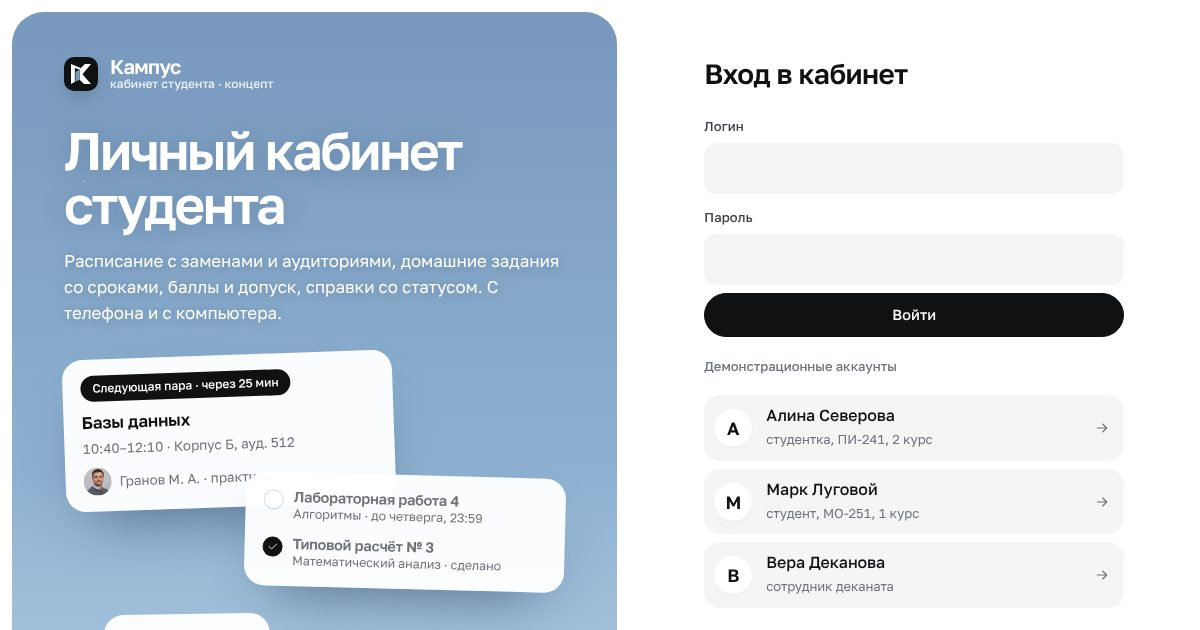
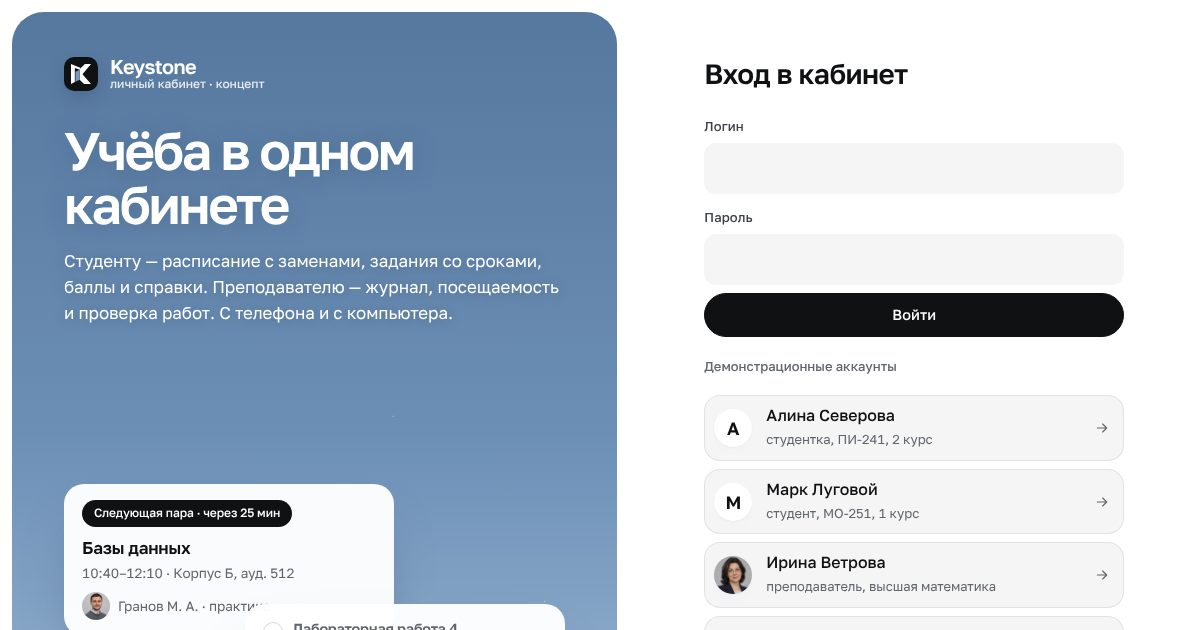
Доступность и документация: контраст неба и подписей, архитектура v3, README для трёх ролей
Claude-Session: https://claude.ai/code/session_01WXnceTRAi8bW5CZN4AeUqz

diff --git a/public/css/app.css b/public/css/app.css
@@ -645,7 +645,7 @@ input:focus-visible,select:focus-visible,textarea:focus-visible{background:var(-
     radial-gradient(1px 1px at 78% 14%,rgba(255,255,255,.9),transparent 60%),
     radial-gradient(1.5px 1.5px at 88% 70%,rgba(255,255,255,.6),transparent 60%),
     radial-gradient(1px 1px at 36% 86%,rgba(255,255,255,.7),transparent 60%),
-    linear-gradient(180deg,#7898bd 0%,#8eb1d1 60%,#b6cfe4 100%)}
+    linear-gradient(180deg,#56779e 0%,#6c8fb6 50%,#a3bed9 100%)}
 .sky,.news.lead.sky,.news.lead.sky:hover{position:relative;isolation:isolate;overflow:hidden;color:#fff;background:var(--sky-bg)}
 .sky :focus-visible{outline-color:#fff}
 
@@ -1011,3 +1011,11 @@ i.jm.m-p::after{width:6px;height:6px}
 .att-line{display:flex;flex-wrap:wrap;align-items:baseline;gap:4px 10px;padding-top:10px;border-top:1px solid var(--line);font-size:13.5px;color:var(--muted)}
 .att-line b{font-weight:600;color:var(--ink)}
 .att-line.low b{color:var(--bad)}
+
+/* Доступность: прямые карточки на входе, контур у демо-аккаунтов, текст новости сверху на тёмной части неба */
+.ui-a,.ui-b,.ui-c{transform:none}
+.demo{box-shadow:inset 0 0 0 1px var(--line)}
+.news.lead{align-content:start}
+.sky .now-meta span,.sky .now-who{color:var(--ink)}
+@media (min-width:960px){.login-side{grid-template-rows:auto auto 1fr}.login-side .hero-ui{align-self:end;margin-top:0}}
+@media (max-width:700px){.jr .jr-name{min-width:128px;padding-right:6px}.jr-stud .face{display:none}.jm{width:24px;height:24px}}

diff --git a/public/js/student.js b/public/js/student.js
@@ -218,7 +218,7 @@ export function viewToday() {
       notes.push(`<button class="change ${l.cancelled ? 'is-cancel' : ''}" data-lesson="${esc(l.id)}"><span class="change-kind">${esc(l.change.label)}</span><span class="change-body"><strong>${esc(l.title)}</strong><span class="change-diff">${when} · ${l.cancelled ? esc(l.change.reason) : `<s>${esc(l.change.was)}</s> <span aria-hidden="true">→</span> <b>${esc(l.change.now)}</b>`}</span></span>${icon('chevron')}</button>`);
     }
   }
-  for (const n of d.notices.filter((x) => !x.read && x.tag === 'Деканат' || !x.read && x.tag === 'Мероприятие')) {
+  for (const n of d.notices.filter((x) => !x.read && ['Деканат', 'Мероприятие', 'Преподаватель', 'Оценка', 'Задание'].includes(x.tag)).slice(0, 4)) {
     notes.push(`<a class="change" href="#notices"><span class="change-kind">${esc(n.tag)}</span><span class="change-body"><strong>${esc(n.title)}</strong><span class="change-diff">${esc(n.body)}</span></span>${icon('chevron')}</a>`);
   }
   const ready = d.requests.filter((x) => x.status === 'Готова').map((r) => item({href: r.document ? `doc/${r.id}` : 'requests', ico: 'requests', tone: 'mint', title: `Документ готов: ${esc(r.kind.toLowerCase())}`, sub: 'Электронная версия в кабинете, оригинал в ауд. А-112.'}));

diff --git a/public/js/util.js b/public/js/util.js
@@ -63,8 +63,8 @@ export function buildIcs(days) {
     const date = day.date.replaceAll('-', '');
     for (const l of day.lessons) {
       if (l.cancelled) continue;
-      const description = [`${l.type}, ${l.pair} пара`, l.teacher.name, l.subgroup, l.format === 'Онлайн' ? 'Онлайн (ссылка в LMS)' : '', l.change ? `${l.change.label}: ${l.change.was} → ${l.change.now}` : ''].filter(Boolean).join('\n');
-      events.push(['BEGIN:VEVENT', `UID:${l.id}@meridian-demo`, `DTSTAMP:${stampNow}`,
+      const description = [`${l.type}, ${l.pair} пара`, l.teacher?.name, l.groups ? `Группы: ${l.groups.join(', ')}` : '', l.subgroup, l.format === 'Онлайн' ? 'Онлайн (ссылка в LMS)' : '', l.change ? `${l.change.label}: ${l.change.was} → ${l.change.now}` : ''].filter(Boolean).join('\n');
+      events.push(['BEGIN:VEVENT', `UID:${l.id}@keystone-demo`, `DTSTAMP:${stampNow}`,
         `DTSTART;TZID=Europe/Moscow:${date}T${l.start.replace(':', '')}00`, `DTEND;TZID=Europe/Moscow:${date}T${l.end.replace(':', '')}00`,
         `SUMMARY:${icsEscape(l.title + ' (' + l.type.toLowerCase() + ')')}`, `LOCATION:${icsEscape(l.place)}`, `DESCRIPTION:${icsEscape(description)}`, 'END:VEVENT'].join('\r\n'));
     }

diff --git a/public/css/tokens.css b/public/css/tokens.css
@@ -3,7 +3,7 @@
 :root{
   color-scheme:light;
   --paper:#ffffff;--paper-2:#f5f5f6;--surface:#ffffff;--card:#f5f5f6;
-  --ink:#101113;--ink-2:#3c3f45;--muted:#6f737b;
+  --ink:#101113;--ink-2:#3c3f45;--muted:#61656d;
   --line:rgba(16,17,19,.08);--line-strong:rgba(16,17,19,.16);
   /* Небо: от пыльного синего к светлому */
   --sky-top:#7f9fc3;--sky-mid:#94b8d5;--sky-low:#c6dbea;--sky-ink:#3e6189;

diff --git a/docs/architecture.md b/docs/architecture.md
@@ -1,153 +1,127 @@
 # Архитектура Keystone v3
 
-Черновик целевой архитектуры кабинета перед редизайном. Версия 1 (`server.py` на стандартной библиотеке и один `app.js`) доказала сценарии, но не масштабируется и не позволяет быстро менять дизайн. Ниже описано, во что мы её превращаем к 22 ноября и почему.
+Keystone — концепт личного кабинета университета для трёх ролей: студент, преподаватель и деканат. Название — замковый камень арки: он держит всю конструкцию, как кабинет держит учебный процесс. Все люди и данные вымышлены.
 
-Статус: 14.11, версия 2 (фронтенд v2 реализован: нижние вкладки, экран «Сегодня», модель расписания, строгий стиль на токенах; бэкенд остался на `server.py`). Учтены бенчмарк порталов (`docs/benchmark-portals.md`) и отчёт критика (`docs/critique.md`). Визуальный стиль ждём от владельца.
-
-## 0. Решение после критики
-
-Критик прав: полная замена бэкенда на FastAPI + PostgreSQL + React за 8 дней — главный риск проекта. Поэтому:
-
-- **Бэкенд остаётся** на текущем `server.py` (стандартная библиотека, SQLite, 12 тестов безопасности). Развиваем его по шагам: новые эндпоинты, справка PDF с QR, лента событий. Таблица стека ниже — целевое состояние для масштабирования после конкурса, в отчёте описываем путь миграции.
-- **Фронтенд переписываем с нуля** — именно он делает продукт «фиговым»: пять наслоённых тем в CSS, пять семейств шрифтов, меню на полэкрана на телефоне. Новый фронтенд — без сборки (ES-модули + дизайн-токены), чтобы деплой оставался одним контейнером.
-- **Публичный HTTPS на российском VPS** поднимаем до редизайна, чтобы жюри гарантированно было что открыть.
+Этот документ описывает то, что реализовано в репозитории. Ранний план перехода на FastAPI, PostgreSQL и React отложен после критики: за отведённое время надёжнее развивать работающий сервер на стандартной библиотеке Python с тестами доступа.
 
 ## 1. Принципы
 
-1. **Задача за два касания.** Главный экран отвечает на вопросы «что у меня сейчас», «что изменилось» и «что я должен сделать». Остальное доступно через нижние вкладки или поиск.
-2. **Одна лента изменений.** Перенос пары, новая оценка, готовая справка и объявление деканата приходят как события одного типа с приоритетом, а не разбросаны по разделам.
-3. **Деканат как сервис, а не очередь.** У каждой заявки есть срок, ответственный, история и понятный следующий шаг. Готовая справка проверяется по QR-коду.
-4. **Безопасность по умолчанию.** Сервер фильтрует любые данные по владельцу, роль проверяется на каждом запросе, секреты хранятся только в переменных окружения сервера.
-5. **Тема — это токены.** Цвета, шрифты, радиусы и плотность задаются CSS-переменными. Новый стиль от владельца подключается заменой одного файла `tokens.css`, без переписывания компонентов.
+1. **Ответ на главный вопрос роли на первом экране.** Студенту: куда идти и что сдать. Преподавателю: какое занятие, кто пришёл, что проверить. Деканату: какие заявки ждут.
+2. **Одно действие — одна кнопка.** Отметить посещаемость, сдать задание, выставить оценку, выдать задание, заказать справку — всё делается из той карточки, где возникла потребность.
+3. **Связанные кабинеты.** Действие одной роли сразу видно другой: преподаватель выдал задание — оно у студента в «Заданиях» и в уведомлениях; студент отметил «Сдано» — преподаватель видит сдачу; оценка и комментарий приходят студенту; пропуск в журнале меняет посещаемость в «Учёбе».
+4. **Безопасность по умолчанию.** Роль проверяется на каждом запросе. Студент видит только свои данные, преподаватель — только свои группы и дисциплины, деканат — заявки и аудитории.
+5. **Спокойный интерфейс.** Белый фон, серые карточки, чёрные действия, один цвет — приглушённое небо в главном блоке страницы.
 
-## 2. Технологический стек
+## 2. Роли и разделы
 
-| Слой | Выбор | Почему |
+| Роль | Разделы | Главное действие |
 | --- | --- | --- |
-| Фронтенд | React 18 + TypeScript + Vite, React Router, TanStack Query | Компонентная модель для редизайна, кеш и состояния загрузки и ошибок «из коробки», типизация защищает от ошибок ИИ-кода |
-| Стили | CSS-переменные (дизайн-токены) + CSS Modules, без тяжёлого UI-кита | Тема меняется одним файлом, светлая и тёмная версии, никакой зависимости от чужого визуального языка |
-| Иконки | Lucide (ISC) | Открытая лицензия, единый стиль |
-| PWA | Web App Manifest + service worker (кеш оболочки и расписания) | Установка на телефон, расписание открывается без сети |
-| Бэкенд | Python 3.12 + FastAPI + Pydantic | OpenAPI-схема для жюри, валидация входа, асинхронность. Продолжение текущего Python-кода |
-| Данные | SQLAlchemy 2 + Alembic; PostgreSQL в продакшене, SQLite локально и в тестах | Масштабирование до тысяч студентов без смены кода; миграции вместо `CREATE IF NOT EXISTS` |
-| Пароли | Argon2id (`argon2-cffi`) | Современный стандарт хеширования (сейчас scrypt; перенос прозрачный при входе) |
-| Сессии | Непрозрачный токен в cookie `__Host-` (HttpOnly, Secure, SameSite=Lax), в БД хранится SHA-256 токена | Отзыв сессии, «выйти на всех устройствах», никакого JWT в localStorage |
-| ИИ | Серверный прокси к GigaChat / YandexGPT / любому OpenAI-совместимому API; ключ только в окружении | Ключ никогда не попадает в браузер; провайдер меняется переменной |
-| Справки | Генерация PDF на сервере (ReportLab) + QR со ссылкой проверки подлинности | Реальный артефакт вместо статуса «Готова» |
-| Развёртывание | Docker Compose: `web` (FastAPI + собранный фронтенд), `db` (PostgreSQL), `caddy` (автоматический HTTPS) на российском VPS | Открывается из России без VPN; одна команда для запуска |
-| Тесты | pytest (API и права доступа), Playwright (сценарии на 360 px и 1440 px), axe-core (доступность) | Каждое требование жюри покрыто автоматической проверкой |
+| Студент (`alina`, `mark`) | Сегодня, Расписание, Задания, Учёба, Заявки, Корпуса; Уведомления, Новости, Помощник, Профиль | Узнать следующую пару и аудиторию, сдать задание, заказать справку |
+| Преподаватель (`vetrova`) | Сегодня, Расписание, Журнал, Задания, Аудитории, Профиль | Отметить посещаемость, проверить работы, выдать задание, написать группе |
+| Деканат (`dekanat`) | Заявки, Аудитории, Объявления, Профиль | Провести заявку до выдачи документа, отметить занятую аудиторию |
+| Без входа | Проверка документа и студенческого билета по QR | Убедиться, что документ подлинный |
 
-Альтернатива при нехватке времени: оставить бэкенд на текущем `server.py`, но вынести фронтенд в React. Решение примем после отчёта критика.
+### Студент
 
-## 3. Роли и доступ
+- **Сегодня.** Карточка «Сейчас» (текущая или следующая пара, аудитория, преподаватель с фото, задание к паре), шкала дня, четыре числа (пары, задания на 7 дней, средний балл, дни до сессии), ближайшие задания, «что изменилось», карусель преподавателей, новости.
+- **Расписание.** Неделя сеткой на компьютере и днями на телефоне; замены «было → стало», окна между парами, задание к паре, экспорт в календарь.
+- **Задания.** Группы «Просрочено / Сегодня и завтра / На неделе / Позже», отметка «Сдано» кружком, проверенные работы с баллами и комментарием преподавателя, календарь сроков на две недели.
+- **Учёба.** Баллы и допуск по каждой дисциплине, график накопления, посещаемость из журнала, преподаватели семестра, график сессии.
+- **Заявки.** Каталог документов со сроками, история заявки как трекинг доставки, электронный документ с QR.
+- **Корпуса.** Планы этажей по парам: свободные аудитории, ваше занятие, отметки деканата.
 
-| Роль | Видит | Может |
-| --- | --- | --- |
-| `student` | Только свои профиль, расписание, оценки, заявки, уведомления | Подавать заявки, отменять до начала работы, задавать вопросы помощнику, отмечать прочитанное, настраивать уведомления |
-| `staff` (деканат) | Заявки студентов своего факультета, список групп | Менять статус, назначать ответственного, писать комментарий, выпускать справку, публиковать объявления адресно |
-| `teacher` (опционально) | Свои занятия и группы | Отмечать перенос или замену пары — событие уходит студентам |
-| публичный | Страница проверки справки по QR | Узнать, подлинна ли справка, без персональных данных сверх необходимого |
+### Преподаватель
 
-Правило реализации: каждый запрос к данным идёт через функцию-«политику» (`can_read(user, resource)`), а SQL всегда включает фильтр по владельцу или факультету. Для каждого правила есть тест, который пытается его нарушить.
+- **Сегодня.** Карточка ближайшего занятия с группами, аудиторией и счётчиком присутствующих; кнопка «Отметить посещаемость»; работы, ждущие проверки; зона риска (меньше 60 баллов или посещаемость ниже 75%); карточки групп.
+- **Журнал.** Таблица «студенты × занятия» за последние шесть недель: клик по клетке меняет отметку (был → не был → опоздал → уважительная → пусто), итоговые столбцы посещаемости и баллов, строка «присутствовало». Для телефона — лист посещаемости с крупными кнопками и «отметить всех неотмеченных».
+- **Задания.** Фильтры «На проверку / Идут / Срок прошёл», прогресс сдачи, лист проверки с баллами и комментарием по каждому студенту, выдача нового задания одной или нескольким группам потока к ближайшему занятию или к дате.
+- **Сообщение группе.** Объявление уходит в уведомления студентов выбранной группы.
 
-## 4. Информационная архитектура
+### Деканат
 
-Мобильная навигация: нижняя панель из пяти вкладок. На компьютере та же структура в боковой колонке.
+- **Заявки.** Очередь со статусами, комментарий студенту, выпуск электронного документа с кодом проверки.
+- **Аудитории.** Те же планы этажей; отметка «занята» на пару или на день с причиной.
+- **Объявления.** Всем студентам или одной группе.
 
-1. **Сегодня** (главная, без прокрутки отвечает на «куда идти сейчас — что изменилось — что сделать»): текущая и следующая пара с аудиторией и таймером, блок «Изменилось» (переносы, новые оценки, готовые справки), «Сделать» (дедлайны на 7 дней, заявки, требующие действия), короткий прогресс семестра.
-2. **Расписание**: день и неделя, свайп по дням, переносы выделены и объяснены («было — стало»), свободные окна, экспорт в календарь (`.ics` и подписка по ссылке), карточка пары с преподавателем и аудиторией.
-3. **Учёба**: дисциплины с баллами, формой контроля и датой; «что нужно для зачёта» (сколько баллов осталось); сессия как таймлайн; долги и пересдачи; рейтинг в группе как опциональный показатель.
-4. **Заявки** (деканат): каталог документов (справка об обучении, выписка, справка для военкомата, академический отпуск, перевод, обращение), у каждого — срок, формат (PDF с QR или бумага) и статус-трекер; чат-обращение с деканатом; FAQ с цитатами из положений.
-5. **Ещё**: цифровой студбилет с QR, уведомления (лента с фильтрами и «прочитать всё»), профиль, настройки (тема, тихие часы, каналы), помощник, выход.
-
-Глобально: поиск и командная палитра (`/` или кнопка) — «справка», «где 512», «баллы по базам данных». Помощник доступен из любого раздела.
-
-## 5. Модель данных
+## 3. Поток данных между ролями
 
 ```text
-users(id, login, password_hash, role, faculty_id, created_at, last_login_at)
-students(user_id, full_name, program, course, group_id, record_book_no)   -- вымышленные
-staff(user_id, full_name, position, faculty_id)
-faculties(id, name) · groups(id, name, faculty_id, course)
-courses(id, title, assessment, credits)
-lessons(id, course_id, group_id, teacher, room, starts_at, ends_at, kind)
-lesson_changes(id, lesson_id, kind[move|room|cancel|replace], old_value, new_value, reason, created_at)
-grades(id, student_id, course_id, item, points, max_points, created_at)
-results(student_id, course_id, status[in_progress|passed|failed|retake], exam_at, final_points)
-request_types(id, code, title, sla_days, needs_fields, output[pdf|paper|answer])
-requests(id, public_no, student_id, type_id, fields_json, status, assignee_id, due_at, created_at, updated_at)
-request_events(id, request_id, status, comment, author_id, created_at)
-documents(id, request_id, file_path, sha256, verify_code, issued_at, revoked_at)
-announcements(id, author_id, tag, title, body, audience[all|faculty|group], audience_id, pinned, created_at, expires_at)
-notifications(id, user_id, kind, ref_id, title, priority, read_at, created_at)  -- единая лента
-notification_prefs(user_id, kind, channel, quiet_from, quiet_to)
-sessions(token_sha256, user_id, user_agent, expires_at, created_at)
-audit_log(id, actor_id, action, target, ip, created_at)                       -- кто что менял
-assistant_messages(id, user_id, role, content, created_at)                     -- без отправки ПДн провайдеру
+Преподаватель ── задание (tasks) ───────────────▶ Студент: «Задания», уведомление «Новое задание»
+Студент ──────── «Сдано» (homework_done) ────────▶ Преподаватель: лист проверки, счётчик «Сдали N из M»
+Преподаватель ── оценка + комментарий (grades) ──▶ Студент: «Проверено», уведомление «Оценка»
+Преподаватель ── отметка (attendance) ───────────▶ Студент: посещаемость в «Учёбе»
+Преподаватель ── сообщение (announcements) ──────▶ Студенты группы: уведомления
+Деканат ──────── статус заявки, документ ────────▶ Студент: история заявки, документ с QR
+Деканат ──────── отметка аудитории (room_marks) ─▶ Все роли: планы этажей
 ```
 
-Что где хранится:
-- **Сервер (PostgreSQL)**: всё перечисленное. Персональные поля только вымышленные. Пароли — только хеши.
-- **Файлы справок**: том Docker, имя файла — случайный UUID, отдача только владельцу или по проверочному коду в урезанном виде.
-- **Браузер**: только cookie сессии (HttpOnly, JS её не видит) и `localStorage` с настройками интерфейса (тема, последний выбранный день). Никаких оценок и ПДн в локальном хранилище, кроме кеша service worker, который очищается при выходе.
-- **Секреты**: `.env` на сервере (ключ ИИ, пароль БД, секрет для подписи QR). В репозитории — только `.env.example`.
+## 4. Модель данных
 
-## 6. API (REST, JSON)
+Справочные данные вымышленного кампуса лежат в коде (`campus_data.py`): звонки, корпуса и аудитории, преподаватели, дисциплины групп, сетка расписания, составы групп, демо-задания, новости. Всё, что меняют пользователи, хранится в SQLite.
 
-```text
-POST /api/auth/login · POST /api/auth/logout · POST /api/auth/logout-all · GET /api/me
-GET  /api/today                         сводка главного экрана одним запросом
-GET  /api/schedule?from=&to=            занятия + изменения
-GET  /api/calendar/{token}.ics          подписка на календарь (токен отзываемый)
-GET  /api/grades · GET /api/session
-GET  /api/request-types · GET/POST /api/requests · GET /api/requests/{id} · POST /api/requests/{id}/cancel
-GET  /api/documents/{id}.pdf            только владелец
-GET  /verify/{code}                     публичная проверка справки
-GET  /api/notifications · POST /api/notifications/read · PUT /api/notification-prefs
-POST /api/assistant                     ответ + ссылки на источники
-GET  /api/search?q=
--- деканат
-GET  /api/staff/requests?status=&group= · PATCH /api/staff/requests/{id}
-POST /api/staff/requests/{id}/issue     выпуск PDF со QR
-POST /api/staff/announcements · GET /api/staff/stats
-```
+| Таблица | Что хранит |
+| --- | --- |
+| `users` | логин, имя, роль, группа; пароль — scrypt с уникальной солью |
+| `sessions` | SHA-256 от токена сессии и срок |
+| `requests`, `request_events`, `documents` | заявки, история статусов, электронные документы с кодом проверки |
+| `cards` | код проверки студенческого билета |
+| `announcements`, `notice_reads` | объявления деканата и преподавателей, прочитанные уведомления |
+| `room_marks` | отметки деканата о занятости аудиторий |
+| `tasks` | задания, выданные преподавателем: группа, дисциплина, срок, занятие, баллы |
+| `homework_done` | отметка студента «Сдано» |
+| `grades` | баллы и комментарий преподавателя по заданию и студенту |
+| `attendance` | отметка посещаемости по занятию и студенту |
 
-Документация OpenAPI — на `/api/docs` (жюри видит контракт).
+Демо-история (прошлые отметки, сдачи одногруппников, старые оценки) строится детерминированно из хеша в `teaching.py`: кабинет выглядит живым в любой день, а изменения пользователей перекрывают её.
 
-## 7. Безопасность
+## 5. API
 
-- Контроль доступа на сервере для каждого объекта (защита от подмены ID); публичные номера заявок не последовательные.
-- Argon2id, ограничение попыток входа (уже есть: 5 за 15 минут), одинаковое время ответа для существующих и несуществующих логинов.
-- Cookie `__Host-`, `HttpOnly`, `Secure`, `SameSite=Lax`; проверка `Origin` и Fetch Metadata для изменяющих запросов (уже есть).
-- Строгий CSP без inline-скриптов, HSTS через Caddy, заголовки `X-Content-Type-Options`, `Referrer-Policy`, `Permissions-Policy`.
-- ИИ-помощник получает только данные текущего студента без ФИО; вопрос считается недоверенным текстом; ответы не меняют данные.
-- Журнал аудита действий деканата.
-- Тесты: подмена ID, доступ студента к API деканата, межсайтовый POST, отсутствие секретов в бандле фронтенда.
+Все ответы — JSON; изменяющие запросы — `POST` с проверкой `Origin` и Fetch Metadata.
 
-## 8. Тема и дизайн-система
-
-```text
-web/src/styles/tokens.css    цвета, типографика, радиусы, тени, отступы, плотность (светлая и тёмная)
-web/src/styles/base.css      сброс, фокус, доступность, reduced-motion
-web/src/ui/                  Button, Card, Tag/StatusPill, Tabs, BottomNav, Sheet, Toast, Skeleton, EmptyState, ErrorState
-```
-
-- Переключатель темы: «Системная / Светлая / Тёмная», выбор хранится в `localStorage`, применяется до отрисовки (без вспышки).
-- У каждого экрана три обязательных состояния: скелетон загрузки, пустое состояние с действием, ошибка с повтором.
-- Минимальная ширина 360 px, зоны касания от 44 px, контраст WCAG AA, видимый фокус.
-- Микроанимации до 200 мс, отключаются при `prefers-reduced-motion`.
-
-## 9. Помощник
-
-Серверный эндпоинт собирает контекст студента (расписание, баллы, дедлайны, статусы заявок) и фрагменты из базы знаний деканата (положения, FAQ — вымышленные или из открытых документов) и отвечает со ссылками «по данным раздела Учёба» или «Положение о справках, п. 3». Без ключа работает справочный режим по правилам (как сейчас). Ответы не меняют данные; действие («заказать справку») помощник предлагает кнопкой, которую нажимает студент.
-
-## 10. План работ
-
-| Этап | Срок | Результат |
+| Метод и путь | Роль | Назначение |
 | --- | --- | --- |
-| 0 | 14.11 | Кабинет деканата, статусы, тесты (сделано в ветке `feature/dean-office`), бенчмарк, критика, эта архитектура |
-| 1 | 15–16.11 | Публичный HTTPS на VPS; новый фронтенд: токены темы, нижние вкладки, экран «Сегодня», правдоподобная неделя |
-| 2 | 16–18.11 | Стиль от владельца, лента изменений «было → стало», каталог справок, PDF с QR и страница проверки, кабинет деканата v2 |
-| 3 | 18–19.11 | Помощник с источниками, поиск, тёмная тема, PWA, пустые и ошибочные состояния |
-| 4 | 19–20.11 | Деплой на российский VPS с HTTPS, проверка из нескольких сетей, Playwright и axe в CI |
-| 5 | 20–22.11 | Отчёт PDF (процесс, промпты, скриншоты), видео, финальная проверка критиком, отправка |
+| `POST /api/login`, `POST /api/logout`, `GET /api/session` | все | вход, выход, текущая сессия |
+| `GET /api/dashboard` | все | данные кабинета своей роли |
+| `POST /api/requests`, `GET /api/requests/<id>` | студент | заявка и её история |
+| `POST /api/homework` | студент | отметка «Сдано» |
+| `POST /api/notice` | студент | прочитано |
+| `POST /api/assistant` | студент | вопрос помощнику |
+| `POST /api/teacher/attendance` | преподаватель | отметка одного или нескольких студентов на занятии |
+| `POST /api/teacher/tasks`, `POST /api/teacher/tasks/delete` | преподаватель | выдать и удалить своё задание |
+| `POST /api/teacher/grade` | преподаватель | баллы и комментарий |
+| `POST /api/teacher/announce` | преподаватель | сообщение своей группе |
+| `POST /api/staff/requests/<id>`, `/api/staff/rooms`, `/api/staff/announcements` | деканат | статус заявки, аудитория, объявление |
+| `GET /api/verify/<code>` | без входа | проверка документа или билета |
+
+## 6. Безопасность
+
+- Роль проверяется на каждом запросе: `/api/teacher/*` только преподавателю, `/api/staff/*` только деканату, студенческие пути только студенту.
+- Преподаватель меняет данные только своих пар «дисциплина — группа»: занятие, студент и задание сверяются с его нагрузкой; будущие занятия отметить нельзя; баллы не выше максимума задания.
+- Пароли — scrypt с солью; в cookie — случайный токен (`HttpOnly`, `SameSite=Strict`, `__Host-` и `Secure` за HTTPS); в базе — его хеш.
+- Ограничение попыток входа: 10 за 5 минут на пару «адрес + логин».
+- Строгая CSP без inline-скриптов и стилей; динамические значения передаются через `data-*` и CSS-переменные.
+- Ключи внешних сервисов только в переменных окружения сервера; в браузер не попадают.
+- Тесты (`tests/test_api.py`): хеши паролей, разделение данных студентов, недоступность чужих заявок, запрет чужих ролей, преподаватель не трогает чужие группы и будущие занятия, сквозные сценарии «задание → сдача → оценка» и «отметка → посещаемость студента».
+
+## 7. Фронтенд
+
+Без сборки: ES-модули в `public/js`, хеш-маршрутизация.
+
+| Файл | Что делает |
+| --- | --- |
+| `main.js` | оболочка, маршруты по ролям, обработчики событий, формы, обновление данных раз в минуту |
+| `student.js` | экраны студента, общие компоненты (заголовок, портрет, пустые состояния) |
+| `teacher.js` | экраны преподавателя: сегодня, расписание, журнал, задания, листы посещаемости и проверки |
+| `staff.js` | экраны деканата |
+| `campus.js` | планы этажей (SVG), стопка этажей в 3D, занятость аудиторий |
+| `viz.js` | кольца, графики, шкала дня, недельная сетка |
+| `util.js`, `icons.js`, `state.js`, `api.js` | даты по Москве, календарь `.ics`, QR, иконки, состояние, запросы |
+
+Стили: `tokens.css` (цвета, радиусы, тени, шрифт), `app.css` (компоненты), `fonts.css` (Golos Text, SIL OFL).
+
+## 8. Что дальше
+
+- PostgreSQL и миграции при росте числа пользователей; модель данных уже разделена на справочники и пользовательские записи.
+- Загрузка файлов работ прямо в кабинет вместо отметки «Сдано».
+- Перенос и отмена занятия преподавателем с автоматическим уведомлением группы.
+- Подписка на календарь по ссылке вместо разовой выгрузки `.ics`.

diff --git a/README.md b/README.md
@@ -2,7 +2,7 @@
 
 Конкурсный прототип для MGIMO×AI Challenge (номинация «Вайб-кодинг»). Это концепт, а не официальный сервис университета. Логотип университета не используется, фотографии не используются, все данные вымышлены.
 
-В кабинете пять разделов. «Сегодня»: что идёт сейчас, что изменилось, что нужно сделать. «Расписание»: пары по звонкам, корпуса и этажи, чётные и нечётные недели, подгруппы, замены и отмены. «Учёба»: баллы и допуск, график сессии. «Заявки»: справки со статусом, историей и электронной версией с QR. «Кампус»: схема корпусов с занятостью аудиторий и поиск. Уведомления, помощник и студенческий билет с QR открываются из шапки и профиля. Для сотрудников деканата есть отдельный кабинет.
+Три связанных кабинета. **Студент**: «Сегодня» (следующая пара, задания, изменения), «Расписание», «Задания» со сроками и отметкой «Сдано», «Учёба» (баллы, допуск, посещаемость), «Заявки» на справки, «Корпуса» с планами этажей. **Преподаватель**: занятия дня, журнал посещаемости и баллов, проверка работ с комментариями, выдача заданий группам, сообщения группе, зона риска. **Деканат**: заявки студентов, занятость аудиторий, объявления. Действия одной роли сразу видны другой. Подробно — в [архитектуре](docs/architecture.md).
 
 ## Оформление
 
@@ -45,6 +45,7 @@ python3 server.py
 | --- | --- | --- |
 | `alina` | Студентка, ПИ-241 | Своё расписание, оценки, заявки и уведомления |
 | `mark` | Студент, МО-251 | Свои данные, другие дисциплины и заявки |
+| `vetrova` | Преподаватель, математический анализ в ПИ-241 и ПИ-242 | Журнал, посещаемость, задания и оценки своих групп, сообщения группам |
 | `dekanat` | Сотрудник деканата | Очередь заявок всех студентов, смена статусов, публикация объявлений |
  Общий пароль для демо — `Campus-demo-2026`. Он предназначен для общедоступных тестовых аккаунтов. В SQLite хранятся хеши паролей с уникальными солями. Заявки и отметки о прочтении сохраняются в базе между входами.
 
@@ -78,7 +79,7 @@ docker compose up --build -d
 
 Модель данных в `campus_data.py`: звонки по парам (6 пар по 90 минут, обеденный перерыв 30 минут), учебные недели с циклом 16 недель и чётностью, подгруппы, онлайн-занятия, корпуса и этажи, справочник аудиторий, преподаватели с кафедрой и консультациями. Оперативные изменения четырёх видов (новая аудитория, перенос времени, отмена, замена преподавателя) показываются как «было → стало» с причиной и временем публикации. Из карточки занятия можно добавить его в календарь (`.ics`, часовой пояс Europe/Moscow). У Марка есть дисциплина без допуска (меньше 60 баллов) — на ней видно, как кабинет подсвечивает риск.
 
-Структура фронтенда без сборки: `public/js/main.js` (маршруты, события), `student.js` и `staff.js` (экраны), `util.js` (даты по Москве, календарь), `public/css/*.css`. Строгая политика CSP: скрипты и стили только свои, без inline.
+Структура фронтенда без сборки: `public/js/main.js` (маршруты, события), `student.js`, `teacher.js` и `staff.js` (экраны), `util.js` (даты по Москве, календарь), `public/css/*.css`. Строгая политика CSP: скрипты и стили только свои, без inline.
 
 ## Кабинет деканата и путь заявки
 
